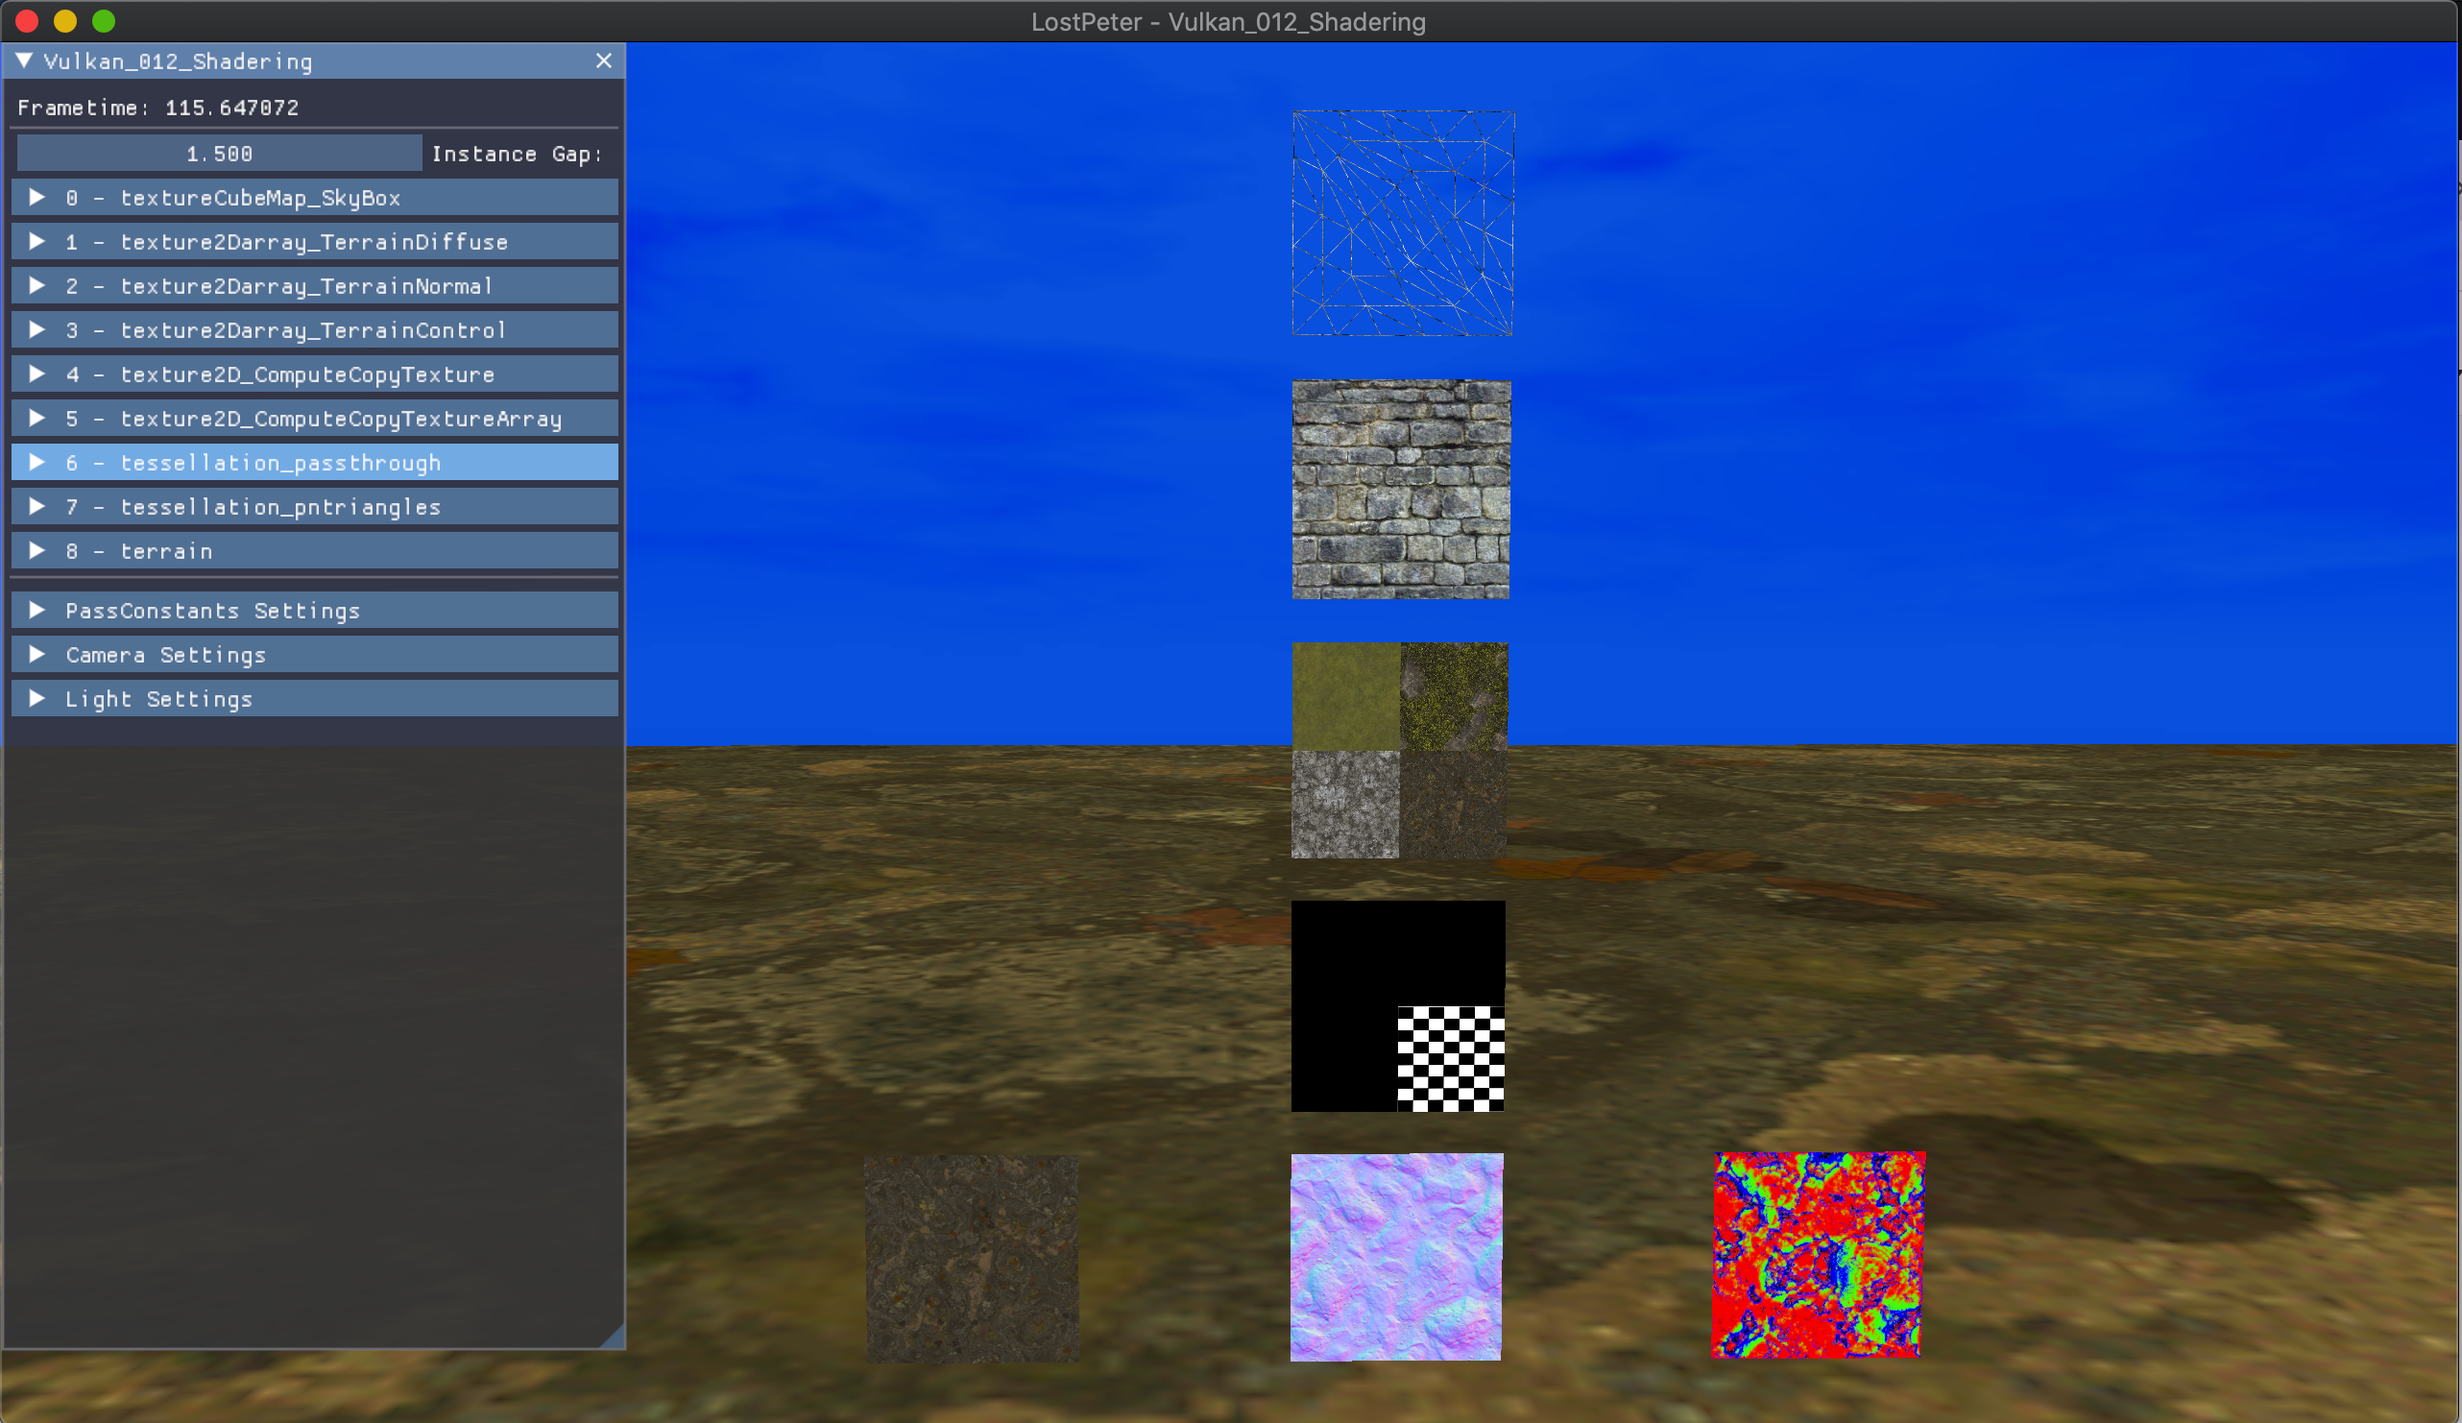
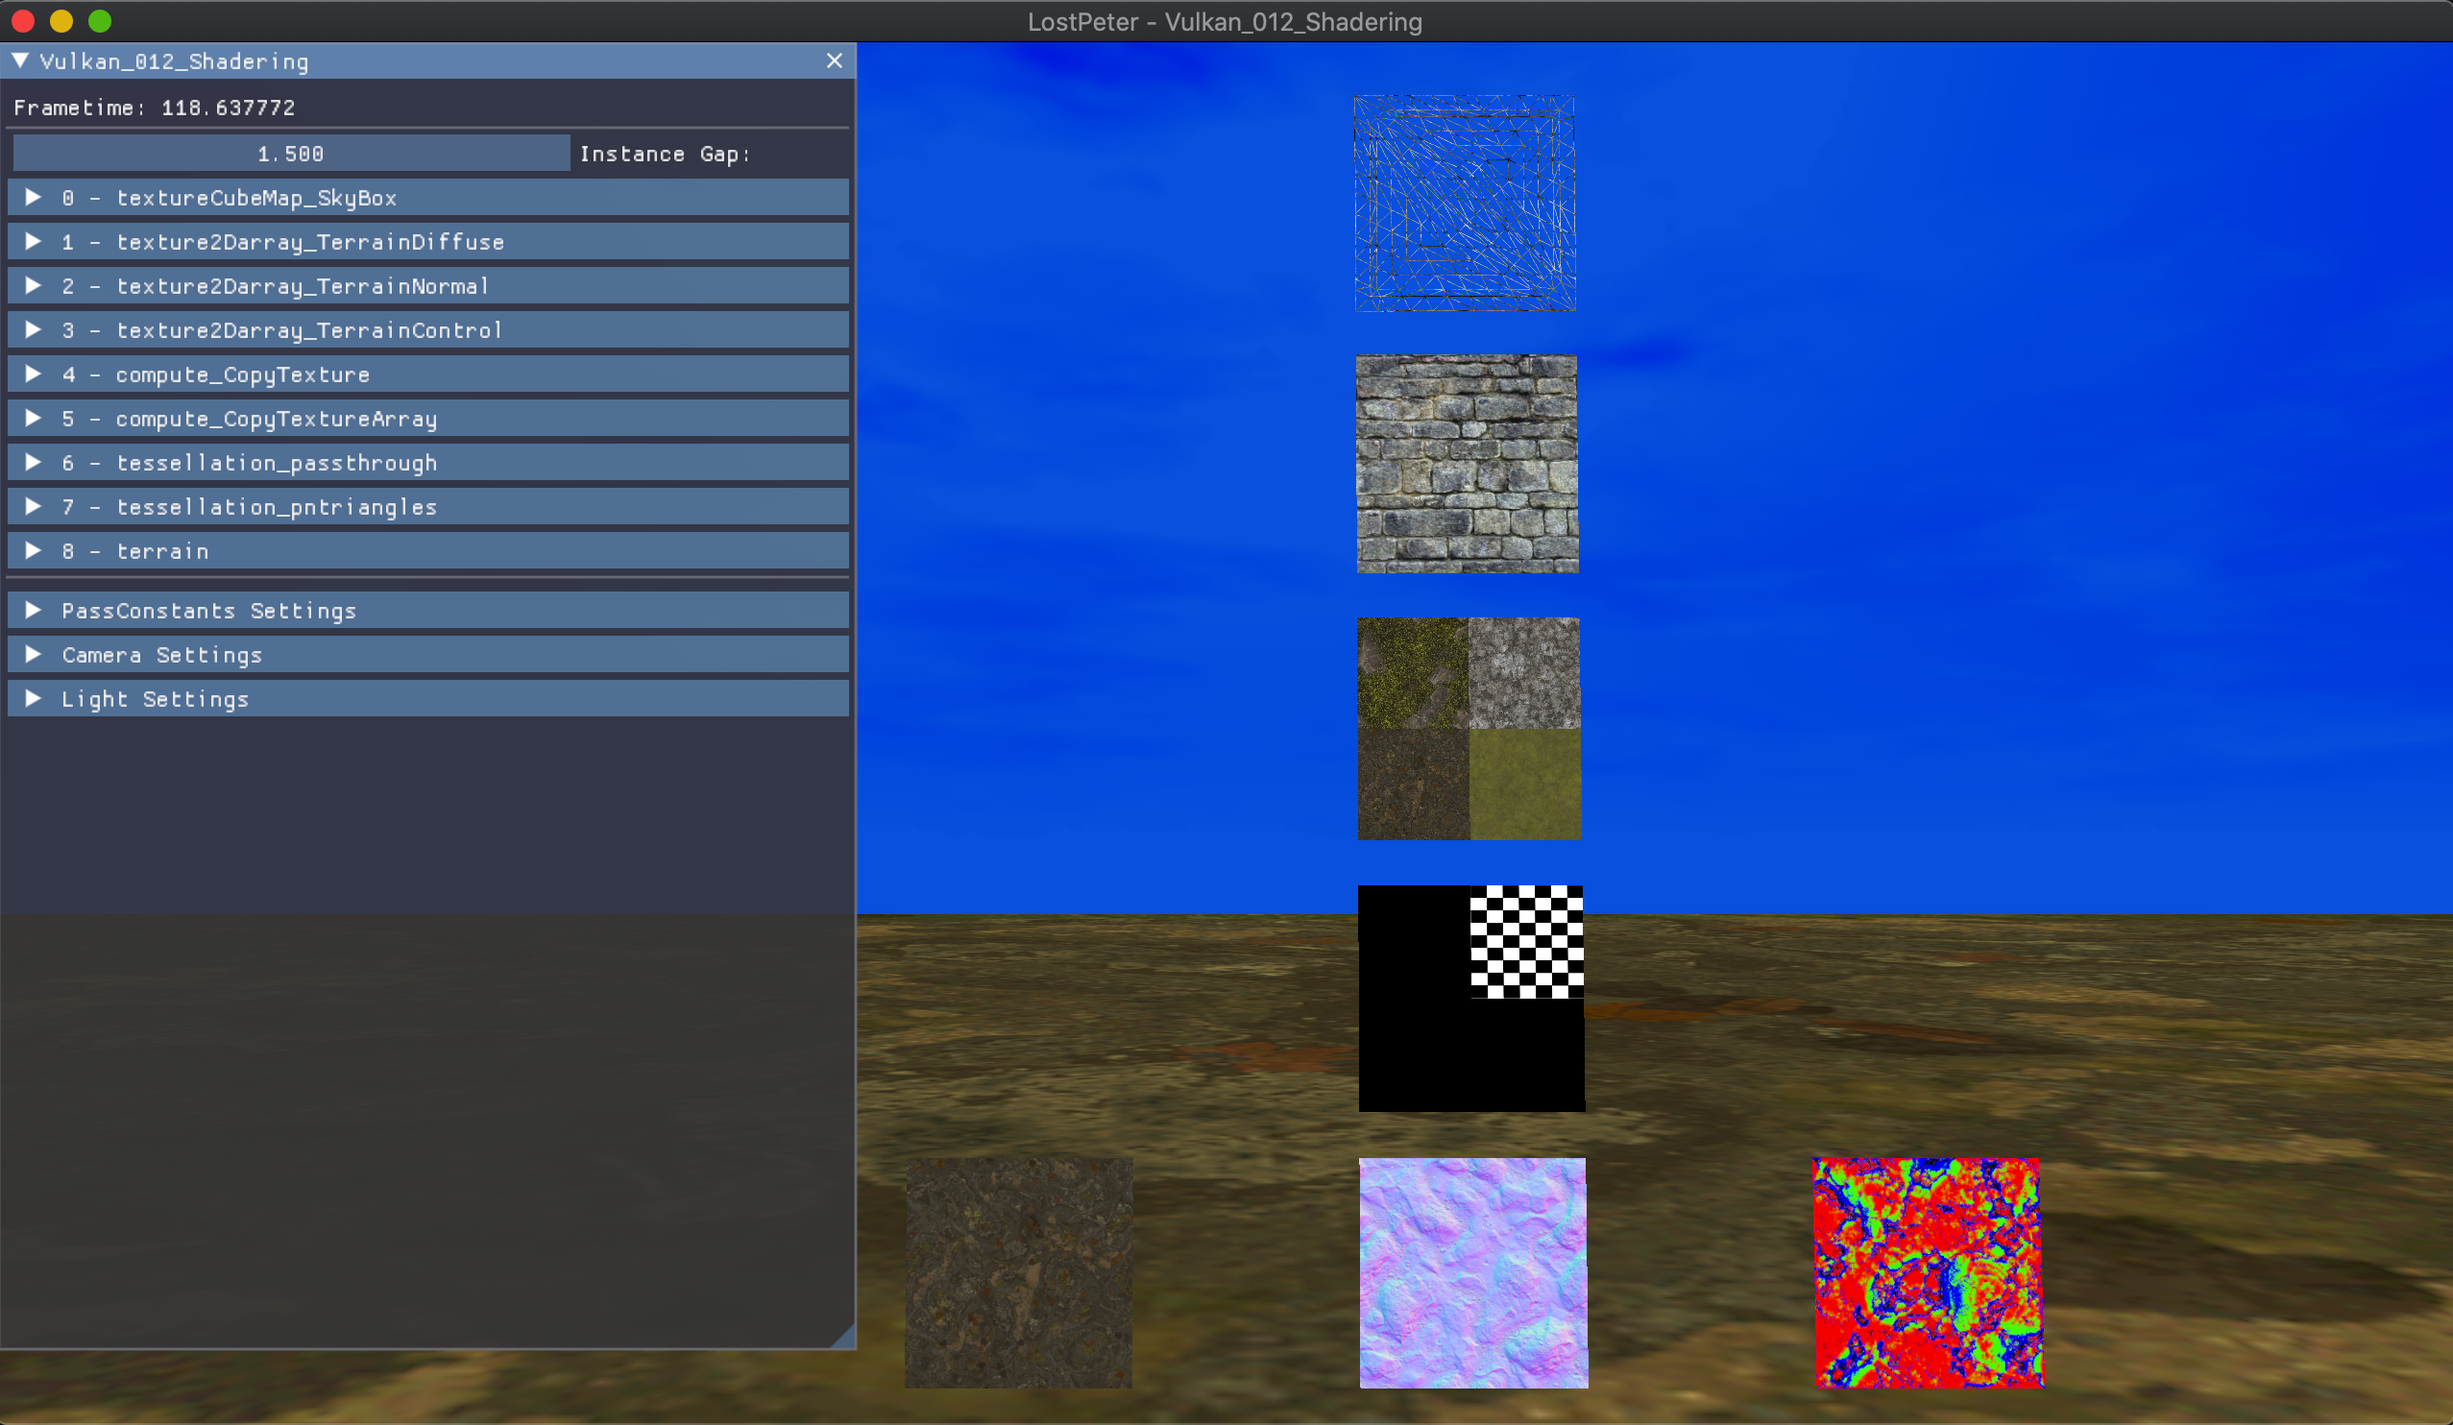
LostPeterVulkan: sample012: vulkan_012_shadering sample

diff --git a/Sample/vulkan_012_shadering/share/vulkan_012_shadering.cpp b/Sample/vulkan_012_shadering/share/vulkan_012_shadering.cpp
@@ -258,8 +258,8 @@ static const char* g_ObjectConfigs[5 * g_ObjectCount] =
     "texture2Darray_TerrainNormal",             "plane",            "",                     "texture_terrain_normal",                                                       "", //texture2Darray_TerrainNormal
     "texture2Darray_TerrainControl",            "plane",            "",                     "texture_terrain_control",                                                      "", //texture2Darray_TerrainControl
 
-    "texture2D_ComputeCopyTexture",             "plane",            "",                     "texture_rt_compute_copy_tex",                                                  "default_blackwhite;texture_rt_compute_copy_tex", //texture2D_ComputeCopyTexture
-    "texture2D_ComputeCopyTextureArray",        "plane",            "",                     "texture_rt_compute_copy_texarray",                                             "texture_terrain_diffuse;texture_rt_compute_copy_texarray", //texture2D_ComputeCopyTextureArray
+    "compute_CopyTexture",                      "plane",            "",                     "texture_rt_compute_copy_tex",                                                  "default_blackwhite;texture_rt_compute_copy_tex", //compute_CopyTexture
+    "compute_CopyTextureArray",                 "plane",            "",                     "texture_rt_compute_copy_texarray",                                             "texture_terrain_diffuse;texture_rt_compute_copy_texarray", //compute_CopyTextureArray
 
     "tessellation_passthrough",                 "plane",            "",                     "bricks_diffuse",                                                               "", //tessellation_passthrough
     "tessellation_pntriangles",                 "plane",            "",                     "bricks_diffuse",                                                               "", //tessellation_pntriangles
@@ -275,8 +275,8 @@ static const char* g_ObjectNameShaderModules[6 * g_ObjectCount] =
     "vert_standard_mesh_opaque_tex2darray_lit",             "",                                             "",                                         "",                         "frag_standard_mesh_opaque_tex2darray_lit",             "", //texture2Darray_TerrainNormal
     "vert_standard_mesh_opaque_tex2darray_lit",             "",                                             "",                                         "",                         "frag_standard_mesh_opaque_tex2darray_lit",             "", //texture2Darray_TerrainControl
 
-    "vert_standard_mesh_opaque_tex2d_lit",                  "",                                             "",                                         "",                         "frag_standard_mesh_opaque_tex2d_lit",                  "comp_standard_compute_texcopy_tex2d", //texture2D_ComputeCopyTexture
-    "vert_standard_mesh_opaque_tex2d_lit",                  "",                                             "",                                         "",                         "frag_standard_mesh_opaque_tex2d_lit",                  "comp_standard_compute_texcopy_tex2darray", //texture2D_ComputeCopyTextureArray
+    "vert_standard_mesh_opaque_tex2d_lit",                  "",                                             "",                                         "",                         "frag_standard_mesh_opaque_tex2d_lit",                  "comp_standard_compute_texcopy_tex2d", //compute_CopyTexture
+    "vert_standard_mesh_opaque_tex2d_lit",                  "",                                             "",                                         "",                         "frag_standard_mesh_opaque_tex2d_lit",                  "comp_standard_compute_texcopy_tex2darray", //compute_CopyTextureArray
 
     "vert_standard_mesh_opaque_tex2d_tessellation_lit",     "tesc_standard_tessellation_passthrough",       "tese_standard_tessellation_passthrough",   "",                         "frag_standard_mesh_opaque_tex2d_tessellation_lit",     "", //tessellation_passthrough
     "vert_standard_mesh_opaque_tex2d_tessellation_lit",     "tesc_standard_tessellation_pntriangles",       "tese_standard_tessellation_pntriangles",   "",                         "frag_standard_mesh_opaque_tex2d_tessellation_lit",     "", //tessellation_pntriangles
@@ -292,8 +292,8 @@ static const char* g_ObjectNameDescriptorSetLayouts[2 * g_ObjectCount] =
     "Pass-Object-Material-Instance-TextureFS",                          "", //texture2Darray_TerrainNormal
     "Pass-Object-Material-Instance-TextureFS",                          "", //texture2Darray_TerrainControl
 
-    "Pass-Object-Material-Instance-TextureFS",                          "TextureCopy-TextureCSR-TextureCSRW", //texture2D_ComputeCopyTexture
-    "Pass-Object-Material-Instance-TextureFS",                          "TextureCopy-TextureCSR-TextureCSRW", //texture2D_ComputeCopyTextureArray
+    "Pass-Object-Material-Instance-TextureFS",                          "TextureCopy-TextureCSR-TextureCSRW", //compute_CopyTexture
+    "Pass-Object-Material-Instance-TextureFS",                          "TextureCopy-TextureCSR-TextureCSRW", //compute_CopyTextureArray
 
     "Pass-Object-Material-Instance-TextureFS-Tessellation",             "", //tessellation_passthrough
     "Pass-Object-Material-Instance-TextureFS-Tessellation",             "", //tessellation_pntriangles
@@ -308,8 +308,8 @@ static int g_ObjectInstanceExtCount[g_ObjectCount] =
     0, //texture2Darray_TerrainNormal 
     0, //texture2Darray_TerrainControl 
 
-    0, //texture2D_ComputeCopyTexture 
-    0, //texture2D_ComputeCopyTextureArray 
+    0, //compute_CopyTexture 
+    0, //compute_CopyTextureArray 
 
     0, //tessellation_passthrough 
     0, //tessellation_pntriangles 
@@ -323,8 +323,8 @@ static glm::vec3 g_ObjectTranforms[3 * g_ObjectCount] =
     glm::vec3(   0,  1.0,   0),     glm::vec3(   -90,  0,  0),    glm::vec3( 0.01f,   0.01f,   0.01f), //texture2Darray_TerrainNormal
     glm::vec3( 2.0,  1.0,   0),     glm::vec3(   -90,  0,  0),    glm::vec3( 0.01f,   0.01f,   0.01f), //texture2Darray_TerrainControl
 
-    glm::vec3(   0,  2.2,   0),     glm::vec3(   -90,  0,  0),    glm::vec3( 0.01f,   0.01f,   0.01f), //texture2D_ComputeCopyTexture
-    glm::vec3(   0,  3.4,   0),     glm::vec3(   -90,  0,  0),    glm::vec3( 0.01f,   0.01f,   0.01f), //texture2D_ComputeCopyTextureArray
+    glm::vec3(   0,  2.2,   0),     glm::vec3(   -90,  0,  0),    glm::vec3( 0.01f,   0.01f,   0.01f), //compute_CopyTexture
+    glm::vec3(   0,  3.4,   0),     glm::vec3(   -90,  0,  0),    glm::vec3( 0.01f,   0.01f,   0.01f), //compute_CopyTextureArray
 
     glm::vec3(   0,  4.6,   0),     glm::vec3(   -90,  0,  0),    glm::vec3( 0.01f,   0.01f,   0.01f), //tessellation_passthrough
     glm::vec3(   0,  5.8,   0),     glm::vec3(   -90,  0,  0),    glm::vec3( 0.01f,   0.01f,   0.01f), //tessellation_pntriangles
@@ -339,8 +339,8 @@ static bool g_ObjectIsTransparents[g_ObjectCount] =
     false, //texture2Darray_TerrainNormal
     false, //texture2Darray_TerrainControl
 
-    false, //texture2D_ComputeCopyTexture
-    false, //texture2D_ComputeCopyTextureArray
+    false, //compute_CopyTexture
+    false, //compute_CopyTextureArray
 
     false, //tessellation_passthrough
     false, //tessellation_pntriangles
@@ -354,8 +354,8 @@ static bool g_ObjectIsShows[] =
     true, //texture2Darray_TerrainNormal
     true, //texture2Darray_TerrainControl
 
-    true, //texture2D_ComputeCopyTexture
-    true, //texture2D_ComputeCopyTextureArray
+    true, //compute_CopyTexture
+    true, //compute_CopyTextureArray
 
     true, //tessellation_passthrough
     true, //tessellation_pntriangles
@@ -369,8 +369,8 @@ static bool g_ObjectIsRotates[g_ObjectCount] =
     false, //texture2Darray_TerrainNormal
     false, //texture2Darray_TerrainControl
 
-    false, //texture2D_ComputeCopyTexture
-    false, //texture2D_ComputeCopyTextureArray
+    false, //compute_CopyTexture
+    false, //compute_CopyTextureArray
 
     false, //tessellation_passthrough
     false, //tessellation_pntriangles
@@ -384,8 +384,8 @@ static bool g_ObjectIsLightings[g_ObjectCount] =
     false, //texture2Darray_TerrainNormal
     false, //texture2Darray_TerrainControl
 
-    false, //texture2D_ComputeCopyTexture
-    false, //texture2D_ComputeCopyTextureArray
+    false, //compute_CopyTexture
+    false, //compute_CopyTextureArray
 
     false, //tessellation_passthrough
     false, //tessellation_pntriangles
@@ -399,8 +399,8 @@ static bool g_ObjectIsTopologyPatchLists[g_ObjectCount] =
     false, //texture2Darray_TerrainNormal
     false, //texture2Darray_TerrainControl
 
-    false, //texture2D_ComputeCopyTexture
-    false, //texture2D_ComputeCopyTextureArray
+    false, //compute_CopyTexture
+    false, //compute_CopyTextureArray
 
     true, //tessellation_passthrough
     true, //tessellation_pntriangles
@@ -797,7 +797,8 @@ void Vulkan_012_Shadering::rebuildInstanceCBs(bool isCreateVkBuffer)
             if (pModelObject->isUsedTessellation)
             {
                 TessellationConstants tessellationConstants;
-                tessellationConstants.tessLevel = 3.0f;
+                tessellationConstants.tessLevelOuter = 3.0f;
+                tessellationConstants.tessLevelInner = 3.0f;
                 tessellationConstants.tessAlpha = 1.0f;
                 pModelObject->tessellationCBs.push_back(tessellationConstants);
             }
@@ -2296,9 +2297,15 @@ bool Vulkan_012_Shadering::beginRenderImgui()
                                 if (pModelObject->isUsedTessellation)
                                 {
                                     TessellationConstants& tess = pModelObject->tessellationCBs[j];
-                                    //tessLevel
-                                    std::string nameTessLevel = "tessLevel - " + VulkanUtilString::SaveInt(j) + " - " + pModelObject->nameObject;
-                                    if (ImGui::DragFloat(nameTessLevel.c_str(), &tess.tessLevel, 0.1f, 1.0f, 500.0f))
+                                    //tessLevelOuter
+                                    std::string nameTessLevelOuter = "tessLevelOuter - " + VulkanUtilString::SaveInt(j) + " - " + pModelObject->nameObject;
+                                    if (ImGui::DragFloat(nameTessLevelOuter.c_str(), &tess.tessLevelOuter, 0.1f, 0.1f, 500.0f))
+                                    {
+                                        
+                                    }
+                                    //tessLevelInner
+                                    std::string nameTessLevelInner = "tessLevelInner - " + VulkanUtilString::SaveInt(j) + " - " + pModelObject->nameObject;
+                                    if (ImGui::DragFloat(nameTessLevelInner.c_str(), &tess.tessLevelInner, 0.1f, 0.1f, 500.0f))
                                     {
                                         
                                     }

diff --git a/Sample/vulkan_011_texturing/share/vulkan_011_texturing.cpp b/Sample/vulkan_011_texturing/share/vulkan_011_texturing.cpp
@@ -1193,7 +1193,8 @@ void Vulkan_011_Texturing::rebuildInstanceCBs(bool isCreateVkBuffer)
             if (pModelObject->isUsedTessellation)
             {
                 TessellationConstants tessellationConstants;
-                tessellationConstants.tessLevel = 64.0f;
+                tessellationConstants.tessLevelOuter = 64.0f;
+                tessellationConstants.tessLevelInner = 64.0f;
                 tessellationConstants.tessAlpha = 1.0f;
                 tessellationConstants.tessStrength = 10.0f;
                 pModelObject->tessellationCBs.push_back(tessellationConstants);
@@ -2731,9 +2732,15 @@ bool Vulkan_011_Texturing::beginRenderImgui()
                                 if (pModelObject->isUsedTessellation)
                                 {
                                     TessellationConstants& tess = pModelObject->tessellationCBs[j];
-                                    //tessLevel
-                                    std::string nameTessLevel = "tessLevel - " + VulkanUtilString::SaveInt(j) + " - " + pModelObject->nameObject;
-                                    if (ImGui::DragFloat(nameTessLevel.c_str(), &tess.tessLevel, 0.1f, 0.1f, 500.0f))
+                                    //tessLevelOuter
+                                    std::string nameTessLevelOuter = "tessLevelOuter - " + VulkanUtilString::SaveInt(j) + " - " + pModelObject->nameObject;
+                                    if (ImGui::DragFloat(nameTessLevelOuter.c_str(), &tess.tessLevelOuter, 0.1f, 0.1f, 500.0f))
+                                    {
+                                        
+                                    }
+                                    //tessLevelInner
+                                    std::string nameTessLevelInner = "tessLevelInner - " + VulkanUtilString::SaveInt(j) + " - " + pModelObject->nameObject;
+                                    if (ImGui::DragFloat(nameTessLevelInner.c_str(), &tess.tessLevelInner, 0.1f, 0.1f, 500.0f))
                                     {
                                         
                                     }

diff --git a/VulkanUtil/Core/include/VulkanDefine.h b/VulkanUtil/Core/include/VulkanDefine.h
@@ -1049,14 +1049,16 @@ namespace LostPeter
     struct utilExport TessellationConstants
     {
     ////tesc
-        float tessLevel;
+        float tessLevelOuter;
+        float tessLevelInner;
 
     ////tese
         float tessAlpha;
         float tessStrength;
 
         TessellationConstants()
-            : tessLevel(3.0f)
+            : tessLevelOuter(3.0f)
+            , tessLevelInner(3.0f)
             , tessAlpha(1.0f)
             , tessStrength(0.1f)
         {
